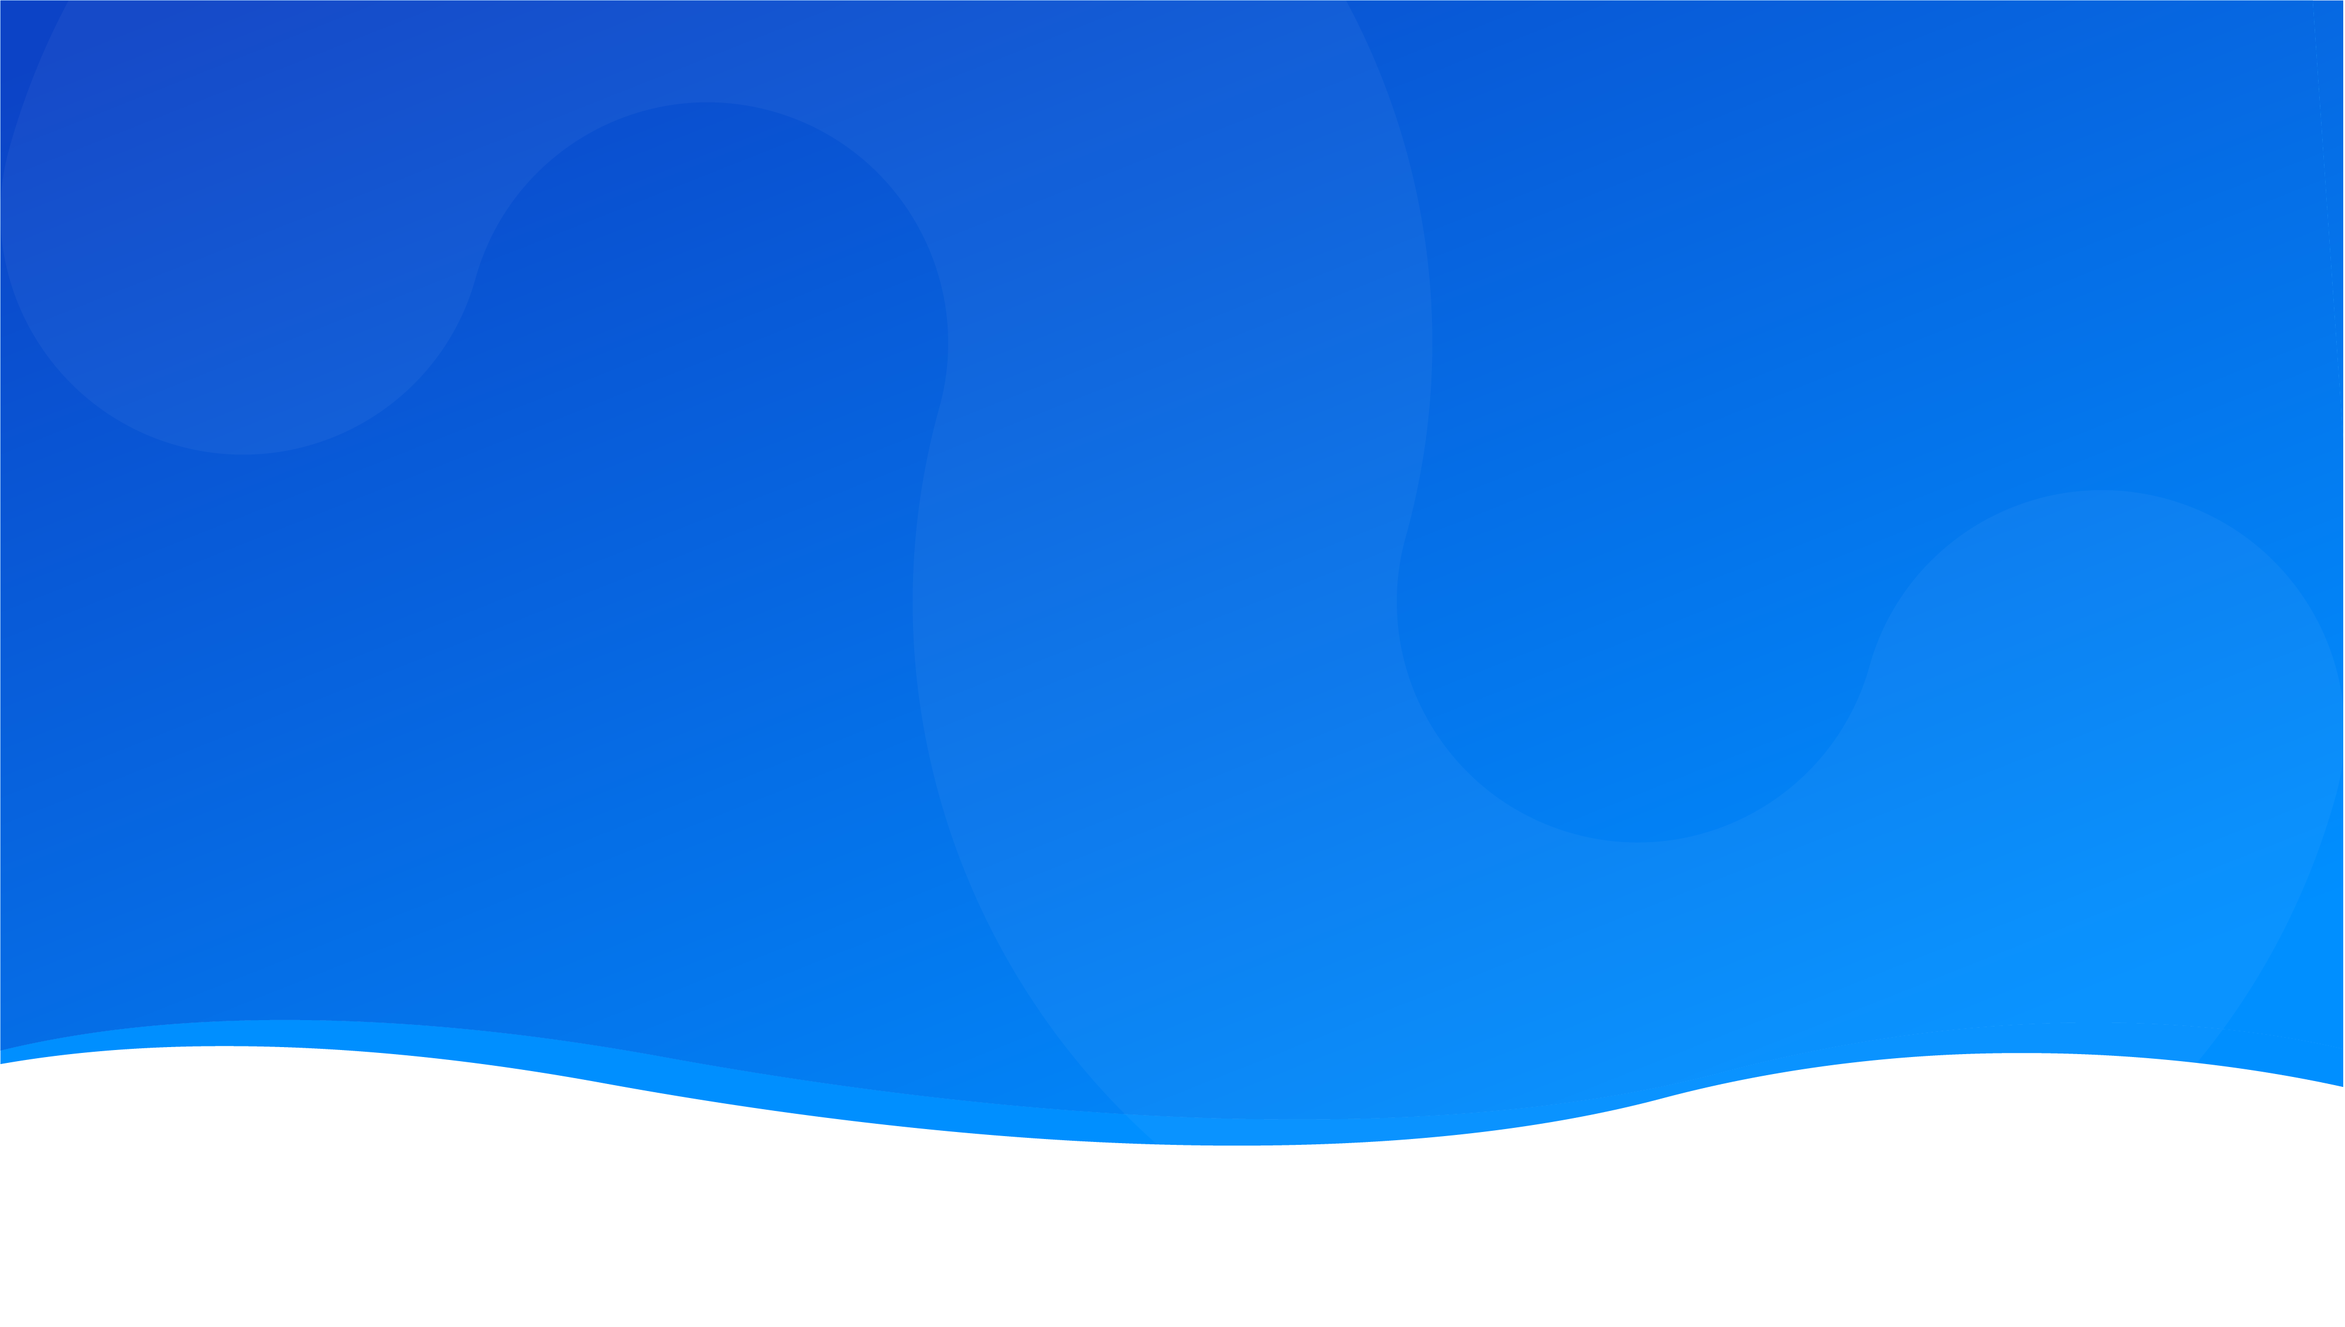
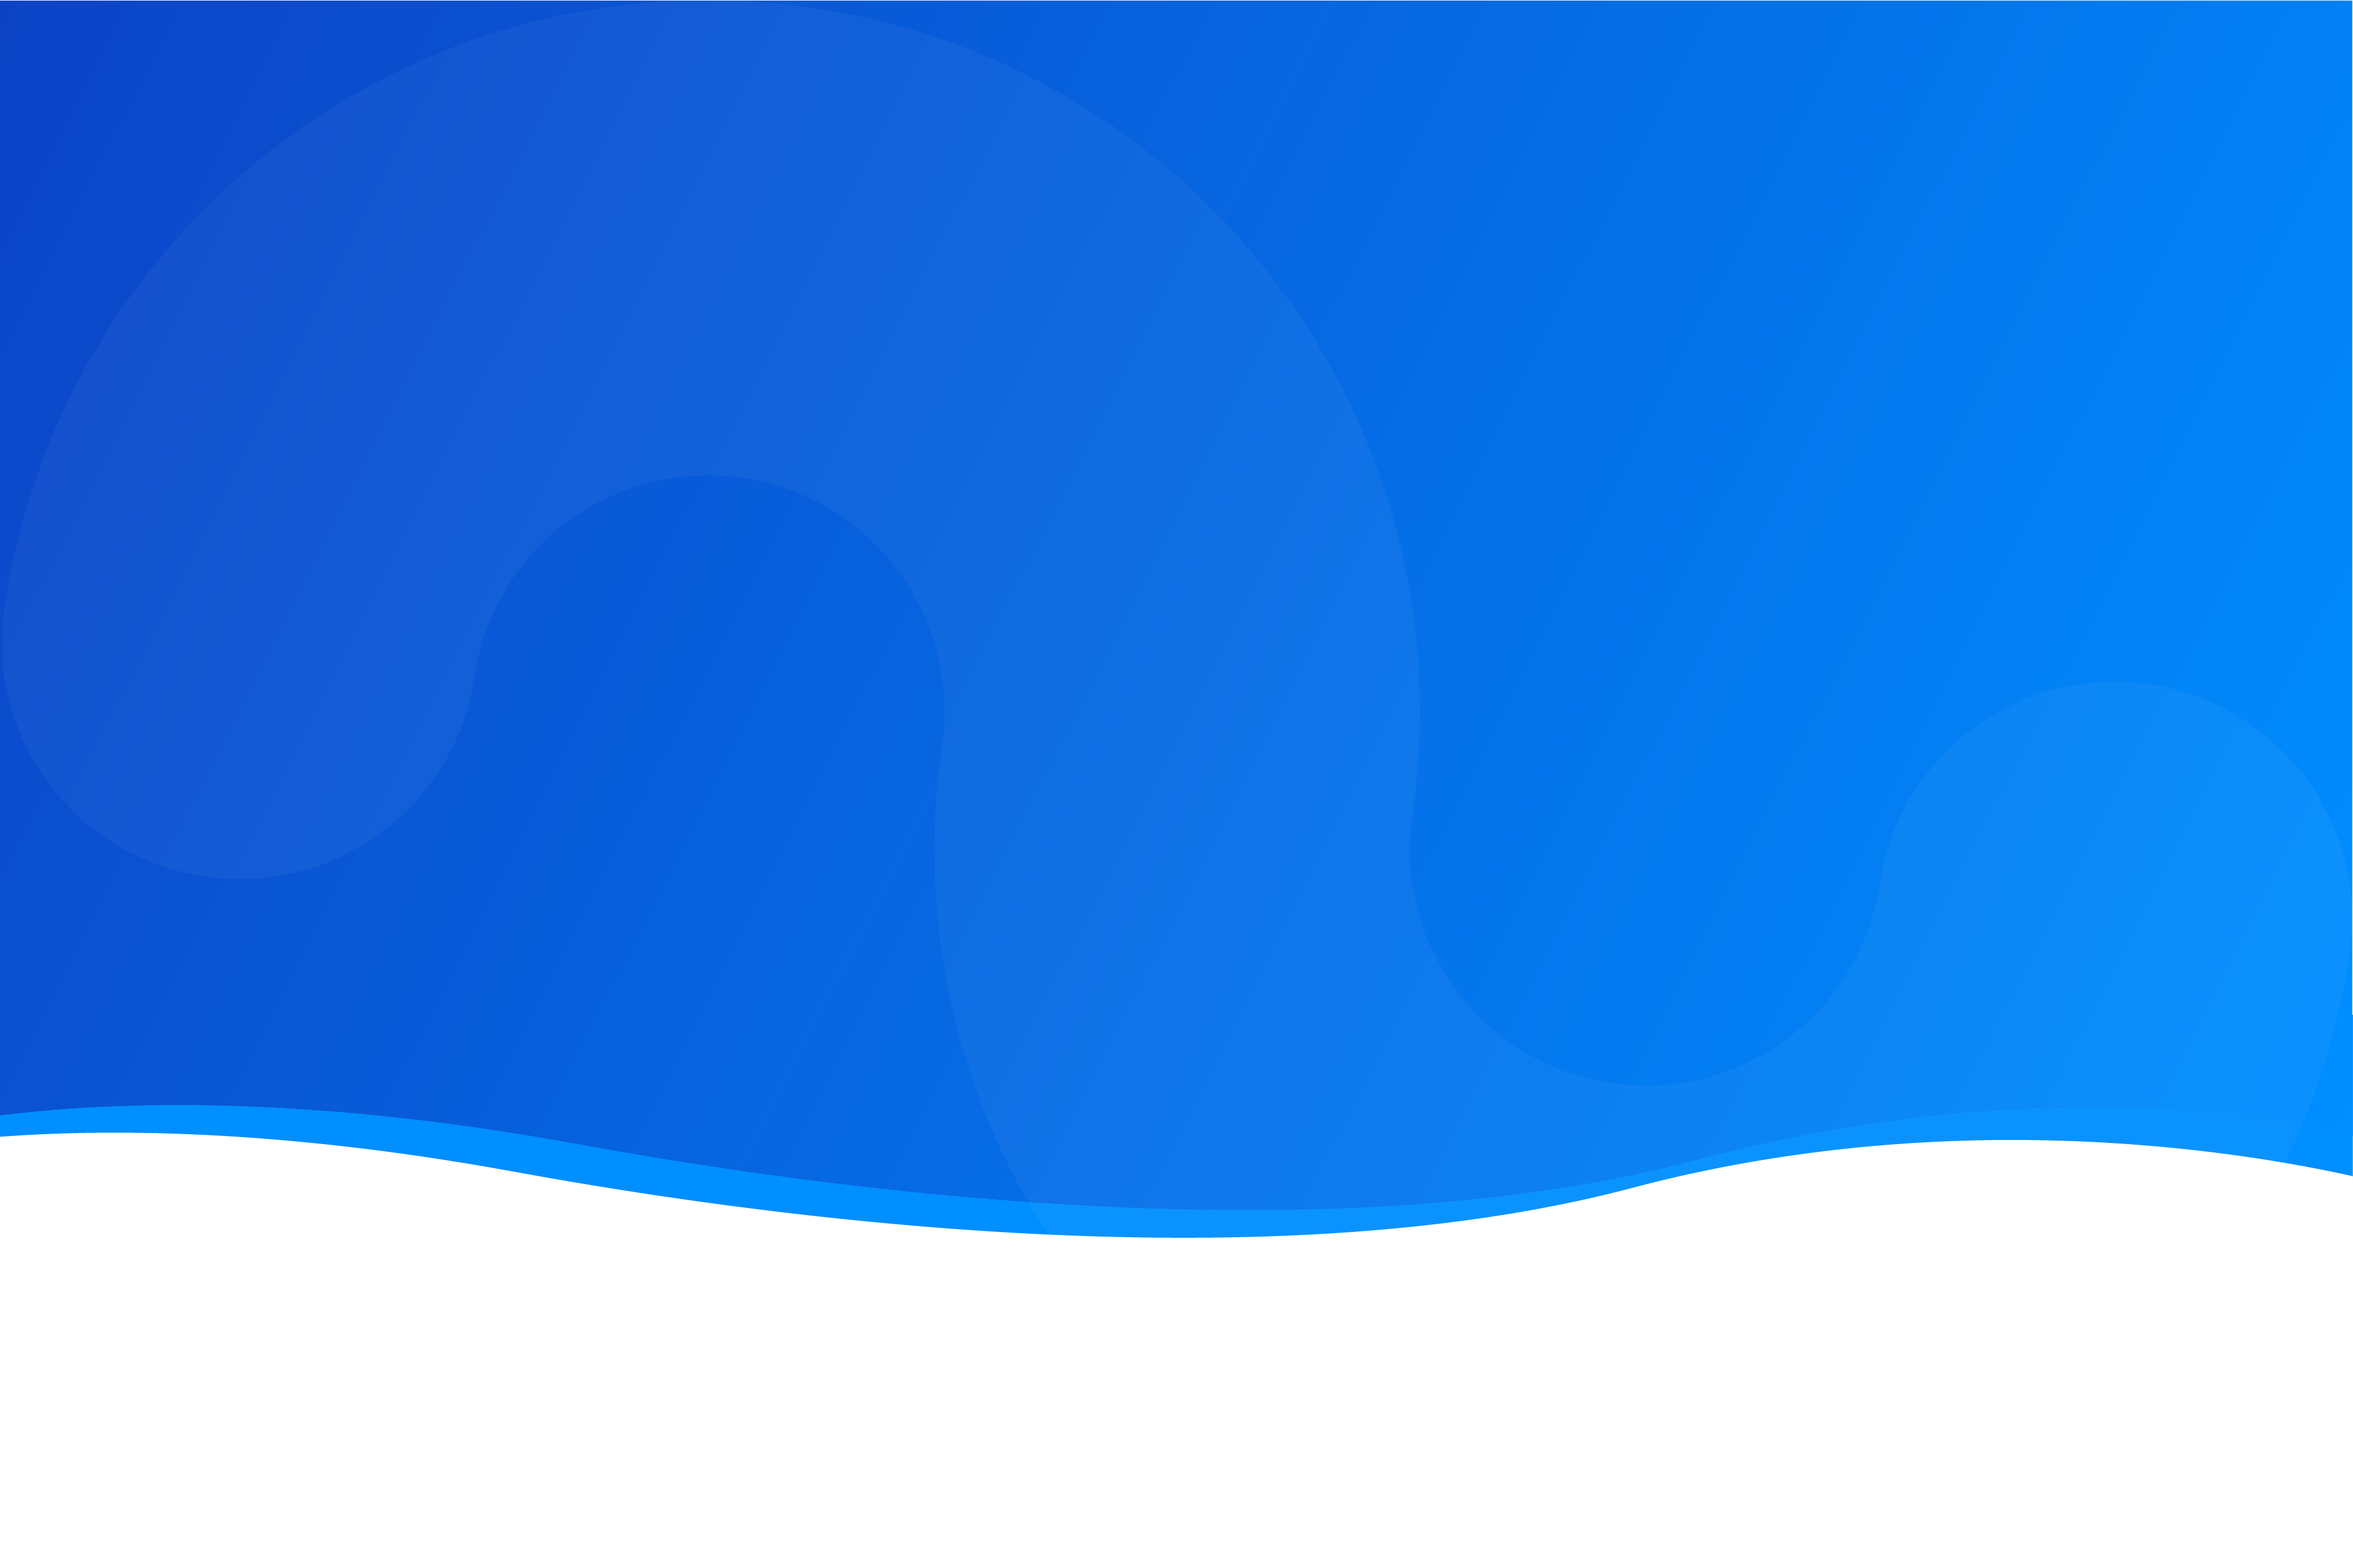
Last commit ot day

Changed region(s): [[0.0, 0.0, 1.0, 0.865]]

diff --git a/laravel/resources/sass/components/_pages.scss b/laravel/resources/sass/components/_pages.scss
@@ -71,12 +71,12 @@ a {
 
 .bassline--background {
     width: 100%;
-    margin-top: -180px;
+    margin-top: -260px;
 }
 
 .infographic--background {
     width: 100%;
-    margin-top: -180px;
+    margin-top: -260px;
 }
 
 .main--background {

diff --git a/laravel/public/css/app.css b/laravel/public/css/app.css
@@ -11269,12 +11269,12 @@ a {
 
 .bassline--background {
   width: 100%;
-  margin-top: -180px;
+  margin-top: -260px;
 }
 
 .infographic--background {
   width: 100%;
-  margin-top: -180px;
+  margin-top: -260px;
 }
 
 .main--background {

diff --git a/laravel/resources/views/team.blade.php b/laravel/resources/views/team.blade.php
@@ -1,5 +1,6 @@
 <!DOCTYPE html>
 <html lang="en">
+
 <head>
     <meta charset="UTF-8">
     <meta name="viewport" content="width=device-width, initial-scale=1.0">
@@ -7,22 +8,26 @@
     <title>Team | Connus</title>
     <link rel="stylesheet" href="{{ asset('css/app.css') }}">
 </head>
-<body class="overview">
-    <div class="navigationcontainer">
-        <div class="leftnav">
-            <img class="logo--icon" href="{{ route('influencers') }}" src="images\connus.icon.white.png" alt="logo">
-            <a id="name" href="{{ route('influencers') }}">Connus</a>
-            <a href="{{ route('blogs') }}">Blogs</a>
-            <a href="{{ route('team') }}">Team</a>
-        <a href="{{ route('faq') }}">FAQ</a>
+
+<body>
+    <div class="desktop">
+        <div class="navigationcontainer">
+            <div class="leftnav">
+                <img class="logo--icon" href="{{ route('influencers') }}" src="images\connus.icon.white.png" alt="logo">
+                <a id="name" href="{{ route('influencers') }}">Connus</a>
+                <a href="{{ route('blogs') }}">Blogs</a>
+                <a href="{{ route('team') }}">Team</a>
+                <a href="{{ route('faq') }}">FAQ</a>
+            </div>
+            <div class="rightnav">
+                {{-- <img src="" alt="stripe"> --}}
+                {{-- <p><a href="{{ route('influencers') }}">I am an influencer</a></p> --}}
+            </div>
         </div>
-        <div class="rightnav">
-            {{-- <img src="" alt="stripe"> --}}
-            {{-- <p><a href="{{ route('influencers') }}">I am an influencer</a></p> --}}
+        <div class="background-images">
+            <img class="header--background" src="images\backgrounds\header.png" alt="header--background">
         </div>
-    </div>
-    <div class="background-images">
-        <img class="header--background" src="images\backgrounds\header.png" alt="header--background">
     </div>
 </body>
+
 </html>

diff --git a/laravel/resources/views/blogs/blog.blade.php b/laravel/resources/views/blogs/blog.blade.php
@@ -1,24 +1,27 @@
 <!DOCTYPE html>
 <html lang="{{ str_replace('_', '-', app()->getLocale()) }}">
-    <head>
-        <meta charset="utf-8">
-        <meta name="viewport" content="width=device-width, initial-scale=1">
 
-        <title>Blog | Connus</title>
+<head>
+    <meta charset="utf-8">
+    <meta name="viewport" content="width=device-width, initial-scale=1">
 
-        <link rel="stylesheet" href="{{ asset('css/app.css') }}">
+    <title>Blog | Connus</title>
 
-    </head>
-    <body class="overview">
+    <link rel="stylesheet" href="{{ asset('css/app.css') }}">
+
+</head>
+
+<body>
+    <div class="desktop">
         <div class="navigationcontainer">
-            <div class="blog-left">
-                <img class="logo--icon" href="{{ route('influencers') }}" src="images\connus.icon.blue.png" alt="logo">
+            <div class="leftnav">
+                <img class="logo--icon" href="{{ route('influencers') }}" src="images\connus.icon.white.png" alt="logo">
                 <a id="name" href="{{ route('influencers') }}">Connus</a>
                 <a href="{{ route('blogs') }}">Blogs</a>
                 <a href="{{ route('team') }}">Team</a>
-            <a href="{{ route('faq') }}">FAQ</a>
+                <a href="{{ route('faq') }}">FAQ</a>
             </div>
-            <div class="right">
+            <div class="rightnav">
                 {{-- <img src="" alt="stripe"> --}}
                 {{-- <p><a href="{{ route('influencers') }}">I am an influencer</a></p> --}}
             </div>
@@ -36,5 +39,7 @@
             @endforeach
 
         </div>
-    </body>
+    </div>
+</body>
+
 </html>

diff --git a/laravel/resources/views/faqs/faq.blade.php b/laravel/resources/views/faqs/faq.blade.php
@@ -1,25 +1,27 @@
 <!DOCTYPE html>
 <html lang="{{ str_replace('_', '-', app()->getLocale()) }}">
-    <head>
-        <meta charset="utf-8">
-        <meta name="viewport" content="width=device-width, initial-scale=1">
 
-        <title>FAQ | Connus</title>
+<head>
+    <meta charset="utf-8">
+    <meta name="viewport" content="width=device-width, initial-scale=1">
 
-        <link rel="stylesheet" href="{{ asset('css/app.css') }}">
+    <title>FAQ | Connus</title>
 
-    </head>
-    <body class="overview">
+    <link rel="stylesheet" href="{{ asset('css/app.css') }}">
 
+</head>
+
+<body>
+    <div class="desktop">
         <div class="navigationcontainer">
-            <div class="blog-left">
-                <img class="logo--icon" href="{{ route('influencers') }}" src="images\connus.icon.blue.png" alt="logo">
+            <div class="leftnav">
+                <img class="logo--icon" href="{{ route('influencers') }}" src="images\connus.icon.white.png" alt="logo">
                 <a id="name" href="{{ route('influencers') }}">Connus</a>
                 <a href="{{ route('blogs') }}">Blogs</a>
                 <a href="{{ route('team') }}">Team</a>
-            <a href="{{ route('faq') }}">FAQ</a>
+                <a href="{{ route('faq') }}">FAQ</a>
             </div>
-            <div class="right">
+            <div class="rightnav">
                 {{-- <img src="" alt="stripe"> --}}
                 {{-- <p><a href="{{ route('influencers') }}">I am an influencer</a></p> --}}
             </div>
@@ -37,5 +39,7 @@
             @endforeach
 
         </div>
-    </body>
+    </div>
+</body>
+
 </html>
